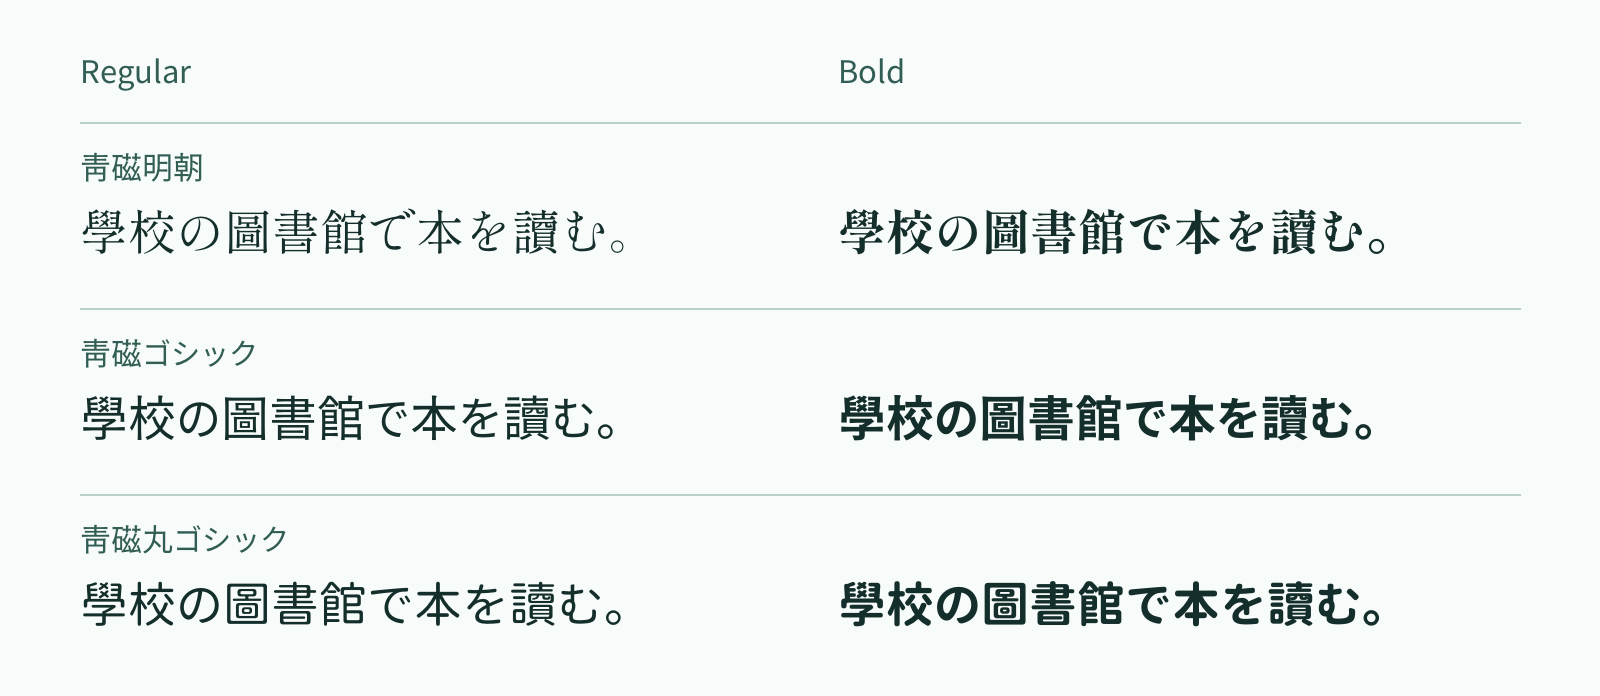
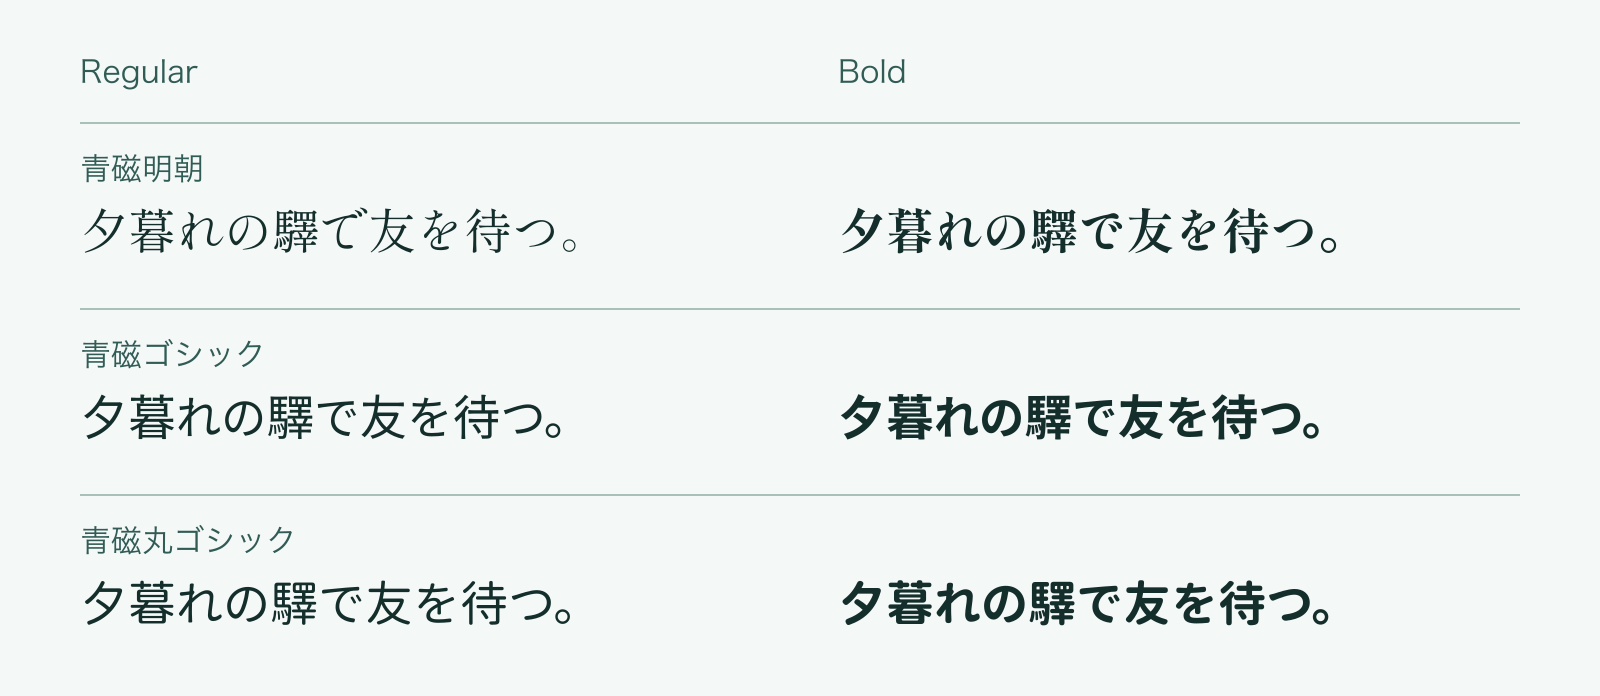
公開文書を整理して英語READMEを追加する

diff --git a/README.md b/README.md
@@ -1,31 +1,49 @@
-# 青磁（せいじ） / Seiji
+# 青磁 / Seiji
 
-青磁は、日本語の漢字を旧字形で表示する書体です。たとえば「学校の図書館」と入力すると、「學校の圖書館」の字形で表示されます。青磁明朝・青磁ゴシック・青磁丸ゴシックの3書体があり、それぞれRegularとBoldを用意しています。
+[English](README.en.md)
 
-[配布版をダウンロードする](https://github.com/metasta/seiji-fonts/releases)
+青磁（せいじ）は、一点明朝正字を基準に漢字の字形を選んだ日本語書体です。青磁明朝・青磁ゴシック・青磁丸ゴシックに、それぞれRegularとBoldがあります。
 
-![青磁明朝・青磁ゴシック・青磁丸ゴシックのRegularとBoldで「学校の図書館で本を読む。」を表示した見本](seiji-specimen.png)
+[フォントをダウンロード](https://github.com/metasta/seiji-fonts/releases)
 
-## 収録範囲
+![青磁明朝・青磁ゴシック・青磁丸ゴシックのRegularとBoldで「夕暮れの驛で友を待つ。」を並べた横組みの見本](seiji-specimen.png)
 
-増補先行版0.200では、教育漢字1,026字に加え、「僕」「俺」「又」など教育漢字以外の常用漢字200字を収録しています。収録漢字は3書体とも計1,226字です。収録漢字の一覧は、配布ZIPの `収録漢字.txt` をご覧ください。ア行エ「𛀀」とや行え「𛀁」も収録しています。未収録の漢字には、アプリやブラウザが代替の書体を使うことがあります。収録範囲は今後の版で順次広げていきます。
-
-## 使い方
+## 利用方法
 
 ### Wordなどのアプリ
 
-配布ZIPを展開し、使いたい書体のOTFをインストールします。アプリのフォントメニューで「青磁明朝」「青磁ゴシック」「青磁丸ゴシック」を選びます。英語の表示名はそれぞれ Seiji Mincho、Seiji Gothic、Seiji Maru Gothic です。
+配布ZIPを展開し、利用する書体のOTFをインストールします。RegularとBoldを併用する場合は、両方のOTFをインストールします。アプリのフォントメニューで、書体名を選びます。
+
+| 書体 | 英語の表示名 |
+| --- | --- |
+| 青磁明朝 | Seiji Mincho |
+| 青磁ゴシック | Seiji Gothic |
+| 青磁丸ゴシック | Seiji Maru Gothic |
 
 ### macOS版Safari
 
-「設定 → 詳細 → スタイルシート → その他」で、ZIPの `Safari` フォルダにあるCSSを一つ選び、読みたいページを再読み込みします。日本語と指定された本文・見出し・ルビなどに選んだ書体を使います。サイトの言語指定やフォント読み込みの設定によっては適用されないことがあります。[Safariの詳細設定](https://support.apple.com/en-ie/guide/safari/ibrw1075/mac)
+「設定 → 詳細 → スタイルシート → その他」で、配布ZIPの `Safari` フォルダにあるCSSを一つ指定し、対象のページを再読み込みします。日本語と指定された本文・見出し・ルビなどに適用されます。 [CSSの選択と適用範囲](docs/safari.md)
 
-### 文脈による字形の切り替え
+## 収録範囲
 
-対応する組版環境では、「台」を単独で入力すると「臺」、天台では「台」、台頭では「擡」、台風では「颱」の字形になります。0.200では「勘弁」と「弁償」の「弁」が「辨」の字形で表示されるなど、増補に伴って7件の規則が新たに有効になります。「台」の直後に異体字セレクタ U+E0100 を入力すると、文脈にかかわらず「台」の字形になります。コピーや検索には、入力した文字コードが使われます。
+増補先行版 0.200は、教育漢字1,026字と、教育漢字以外の常用漢字200字を収録します。6本のフォントに共通する計1,226字です。個々の漢字は、配布ZIPの `収録漢字.txt` で確認できます。
 
-## 字形の基準とライセンス
+## 文脈による字形選択と入力字の指定
 
-漢字の字形は、一点明朝正字を基準に選んでいます。各書体の素材とその配布元は、ZIPの `README.md` と `素材の出典.json` に記載しています。[一点明朝正字の字形選定基準](https://github.com/epistularum/kanji-restoration#正字-criteria)
+「辯」「辨」「瓣」は、今の表記では同じ「弁」と書く別の漢字です。OpenTypeの `calt` が有効な組版環境では、「弁論・弁別・花弁」を「辯論・辨別・花瓣」の字形で表示します。
 
-青磁のフォントとSafari用CSSに含まれるフォントは、SIL Open Font License 1.1で配布します。著作権表示とライセンス原文は同梱の [OFL.txt](OFL.txt) をご覧ください。
+単独の「弁」は通常「辯」の字形で表示します。「弁」そのものの形が必要なときは、異体字シーケンス（IVS）に対応する環境で、「弁」に異体字セレクタを続けた `弁` を入力します。0.200でこの指定ができるのは、対応表に記した13組です。 [文脈規則とIVSの対応表](docs/contextual-forms.md)
+
+## 技術資料
+
+- [漢字とかなの収録範囲](docs/coverage.md)
+- [漢字の選定基準と青磁の字形](docs/glyph-selection.md)
+- [文脈による字形選択と異体字シーケンス](docs/contextual-forms.md)
+- [macOS版Safariでの設定と適用範囲](docs/safari.md)
+- [既知の表示上の制約](docs/known-issues.md)
+
+## 使用許諾と素材
+
+OTF版のフォントとSafari用CSS内のフォントは、SIL Open Font License 1.1で配布します。著作権表示とライセンス原文は `OFL.txt` に、素材の配布元とSHA-256は配布ZIPの `素材の出典.json` に記載します。 [OFL.txt](OFL.txt)
+
+青磁に関する質問や不具合の報告は、GitHub Issuesで受け付けます。 [Issues](https://github.com/metasta/seiji-fonts/issues)

diff --git a/docs/contextual-forms.md b/docs/contextual-forms.md
@@ -1,0 +1,64 @@
+# 文脈による字形選択と異体字シーケンス
+
+青磁 0.200では、「弁論・弁別・花弁」の「弁」を、文脈に応じて「辯・辨・瓣」の字形で表示できます。「弁別」を「辨別」の字形で表示した場合も、コピーすると入力時の「弁別」が得られます。以下の対応範囲は、青磁明朝・青磁ゴシック・青磁丸ゴシックのRegularとBoldで共通です。
+
+## 前後の文字に応じた表示
+
+OpenTypeの文脈依存字形機能（`calt`）が有効なアプリでは、前後の文字が登録された規則に一致すると字形が決まります。「花弁」の「弁」は、直前の「花」によって「瓣」の形になります。「弁論」の「辯」は「弁」の既定の字形です。既定の字形は、下表の「通常」欄に示します。 [OpenTypeの `calt` 仕様](https://learn.microsoft.com/en-us/typography/opentype/spec/features_ae#tag-calt)
+
+## 入力した漢字自体の字形を指定する（IVS）
+
+「弁」は通常「辯」、「余」は通常「餘」の字形で表示します。「弁」や「余」自体の形が必要な場合は、表の `弁` や `余` をコピーして貼り付けます。漢字とその直後に置く字形指定用の文字（異体字セレクタ）の組を、異体字シーケンス（IVS）と呼びます。上の二例では異体字セレクタはU+E0100です。対応アプリでは、IVSの指定が `calt` より優先します。
+
+この方法で入力した漢字自体の字形を指定できるのは、表に示す13組です。各組はUnicodeの異体字データベース（IVD）に登録されています。 [Unicode IVD](https://www.unicode.org/ivd/)
+
+| 入力 | 通常 | IVS（コピー用） | 異体字セレクタ | IVSの字形 | 文脈規則数 |
+| --- | --- | --- | --- | --- | ---: |
+| 台（U+53F0） | 臺 | `台` | `U+E0100` | 台 | 19 |
+| 弁（U+5F01） | 辯 | `弁` | `U+E0100` | 弁 | 52 |
+| 予（U+4E88） | 豫 | `予` | `U+E0100` | 予 | 2 |
+| 余（U+4F59） | 餘 | `余` | `U+E0100` | 余 | 0 |
+| 灯（U+706F） | 燈 | `灯` | `U+E0100` | 灯 | 1 |
+| 芸（U+82B8） | 藝 | `芸` | `U+E0102` | 芸（四画の草冠） | 14 |
+| 欠（U+6B20） | 缺 | `欠` | `U+E0100` | 欠 | 6 |
+| 体（U+4F53） | 體 | `体` | `U+E0100` | 体 | 1 |
+| 担（U+62C5） | 擔 | `担` | `U+E0100` | 担 | 0 |
+| 糸（U+7CF8） | 絲 | `糸` | `U+E0100` | 糸 | 0 |
+| 虫（U+866B） | 蟲 | `虫` | `U+E0100` | 虫 | 0 |
+| 蚕（U+8695） | 蠶 | `蚕` | `U+E0100` | 蚕 | 0 |
+| 証（U+8A3C） | 證 | `証` | `U+E0100` | 証 | 0 |
+
+## 前後の文字で字形が決まる語句（calt）
+
+青磁 0.200の7字・95件の文脈規則です。「入力の文脈」欄の［ ］は、規則の対象となる1字を示します。「花［弁］」では、「花」の直後の「弁」に「瓣」の形が適用されます。0.200で追加した規則には、「勘弁」「弁償」の「弁」を「辨」の字形で表示するものがあります。
+
+| 対象字 | 表示字形 | 入力の文脈 |
+| --- | --- | --- |
+| 台 | 台 | ［台］安・［台］臨・［台］位・［台］階・［台］司・［台］書・［台］席・［台］背・［台］墨・［台］命・［台］覧・［台］星・［台］台・［台］々・天［台］・［台］密・［台］家 |
+| 台 | 擡 | ［台］頭 |
+| 台 | 颱 | ［台］風 |
+| 弁 | 辨 | 駅［弁］・勘［弁］・思［弁］・自［弁］・知勇［弁］力・調［弁］・［弁］え・［弁］務・分［弁］・［弁］別・論［弁］・明［弁］・精［弁］ |
+| 弁 | 辨 | ［弁］内侍・［弁］償・［弁］済・［弁］校・［弁］官・左大［弁］・左中［弁］・左少［弁］・右大［弁］・右中［弁］・右少［弁］・［弁］告・［弁］財天 |
+| 弁 | 辨 | ［弁］章・［弁］証・［弁］色・［弁］説・［弁］当・［弁］白・［弁］法・［弁］理・［弁］正 |
+| 弁 | 瓣 | 合［弁］花・単［弁］・花［弁］・安全［弁］・［弁］香・皮［弁］ |
+| 弁 | 辦 | ［弁］厳・重［弁］・総［弁］・会［弁］・合［弁］・買［弁］ |
+| 弁 | 弁 | ［弁］言・［弁］兵・［弁］目・武［弁］・赤［弁］丈人 |
+| 予 | 予 | ［予］一人・［予］小子 |
+| 灯 | 灯 | 提［灯］ |
+| 芸 | 芸（四画の草冠） | ［芸］芸・［芸］々・［芸］香・［芸］閣・［芸］局・［芸］黄・［芸］窓・［芸］若・［芸］草・［芸］署・［芸］台・［芸］夫・［芸］編・［芸］亭 |
+| 欠 | 欠 | ［欠］字・［欠］日・［欠］伸・［欠］申・［欠］積・積［欠］ |
+| 体 | 体 | ［体］夫 |
+
+### 同音の別字を表示する例
+
+「台頭」を「擡頭」、「台風」を「颱風」の字形で表示する規則もあります。同音の別字による表記は、一部の語に限る補足的な機能です。
+
+### 表の語句で目的の字形が出ないとき
+
+アプリで `calt` を有効にし、表の文字列を同じフォント・書式で入力します。「花 弁」と間に空白を挟むと、「花［弁］」の規則に一致しません。アプリが途中で処理を分ける場合も、前後の文字を同時に参照できず、規則が適用されないことがあります。
+
+表の規則に当てはまる文脈がなく、IVSによる指定もない場合は通常の字形になります。
+
+### 複数の規則が当てはまるとき
+
+対象字の前後に指定された文字数の合計が多い規則を優先し、同数なら登録順で決めます。「天台風」の「台」は「天［台］」と「［台］風」に当てはまります。この場合は先に登録された「天［台］」の規則を適用し、「台」の字形を表示します。

diff --git a/README.en.md b/README.en.md
@@ -1,0 +1,51 @@
+# Seiji / 青磁
+
+[日本語](README.md)
+
+Seiji is a set of Japanese typefaces whose kanji forms follow the selection criteria of I.Ming Seiji. Seiji Mincho, Seiji Gothic, and Seiji Maru Gothic each come in Regular and Bold.
+
+[Download the fonts](https://github.com/metasta/seiji-fonts/releases)
+
+![Horizontal specimen comparing Regular and Bold in Seiji Mincho, Seiji Gothic, and Seiji Maru Gothic. The sample describes waiting for a friend at a station at dusk, with 駅 shown in the form 驛.](seiji-specimen.png)
+
+## Installation
+
+### Word and other apps
+
+Extract the release ZIP and install the OTF files for your chosen typeface. Install both files if you need both weights. Choose the typeface from your app’s font menu.
+
+| English menu name | Japanese menu name |
+| --- | --- |
+| Seiji Mincho | 青磁明朝 |
+| Seiji Gothic | 青磁ゴシック |
+| Seiji Maru Gothic | 青磁丸ゴシック |
+
+### Safari on macOS
+
+Open **Settings → Advanced → Style sheet → Other**, select one CSS file from the release ZIP’s `Safari` folder, and reload the page. This applies Seiji to page content marked as Japanese, including body text, headings, and ruby annotations. [Style sheet options and scope (Japanese)](docs/safari.md)
+
+## Character coverage
+
+The 0.200 preview includes 1,026 educational kanji and 200 additional jōyō kanji, for a total of 1,226 across all six fonts. The release ZIP includes the complete list in `収録漢字.txt`.
+
+## Contextual forms and literal glyphs
+
+辯, 辨, and 瓣 are distinct kanji that share the form 弁 in modern Japanese. When the OpenType `calt` feature is enabled, 弁論, 弁別, and 花弁 appear as 辯論, 辨別, and 花瓣, respectively.
+
+On its own, 弁 normally appears as 辯. To display the form 弁 itself in an app that supports ideographic variation sequences (IVS), enter `弁` (弁 followed by U+E0100). Version 0.200 provides this option for the 13 sequences in the reference table. [Contextual rules and IVS reference (Japanese)](docs/contextual-forms.md)
+
+## Technical documentation
+
+These documents are in Japanese.
+
+- [Kanji and kana coverage](docs/coverage.md)
+- [Kanji selection and Seiji’s glyph design](docs/glyph-selection.md)
+- [Contextual forms and ideographic variation sequences](docs/contextual-forms.md)
+- [Safari setup and style sheet scope](docs/safari.md)
+- [Known display limitations](docs/known-issues.md)
+
+## License and sources
+
+Seiji is distributed under the SIL Open Font License 1.1, including the fonts embedded in the Safari CSS. See `OFL.txt` for copyright notices and the license text. The release ZIP lists source URLs and SHA-256 hashes in `素材の出典.json`. [OFL.txt](OFL.txt)
+
+Questions and bug reports are welcome on GitHub. [Issues](https://github.com/metasta/seiji-fonts/issues)

diff --git a/docs/coverage.md b/docs/coverage.md
@@ -1,0 +1,23 @@
+# 収録漢字とかな
+
+青磁 0.200の収録漢字は、配布ZIPの `収録漢字.txt` で確認できます。入力する漢字と、そのUnicode符号位置（文字番号）の一覧です。青磁明朝・青磁ゴシック・青磁丸ゴシックのRegularとBold、計6本の収録漢字は共通です。 [青磁 0.200の配布ZIP](https://github.com/metasta/seiji-fonts/releases/tag/v0.200)
+
+| 区分 | 字数 |
+| --- | ---: |
+| 教育漢字 | 1,026 |
+| 教育漢字以外の常用漢字の一部 | 200 |
+| 合計 | 1,226 |
+
+## 0.200で収録した範囲
+
+教育漢字は、小学校学習指導要領の学年別漢字配当表（平成29年告示）の全1,026字です。0.100ではこの範囲を収録しました。 [文部科学省「小学校学習指導要領（平成29年告示）解説 国語編」](https://www.mext.go.jp/content/20220606-mxt_kyoiku02-100002607_002.pdf)
+
+0.200で追加したのは、平成22年の常用漢字表から教育漢字を除き、Unicodeの符号位置が小さい順に並べた先頭の200字です。「丈」（U+4E08）から「奔」（U+5954）までで、「僕」「俺」「勘」「償」などを含みます。常用漢字の符号位置の特定には、Unihan 18.0.0の `kJoyoKanji` で値が `2010` の項目を参照しました。 [文化庁「常用漢字表」](https://www.bunka.go.jp/kokugo_nihongo/sisaku/joho/joho/kijun/naikaku/kanji/index.html)・[Unicode Unihanの項目定義](https://www.unicode.org/reports/tr38/tr38-41.html#kJoyoKanji)
+
+## 入力する漢字と表示する形
+
+「国」（U+56FD）を入力すると「國」の字形で表示します。文字コードは入力時のままなので、収録を確かめるときは入力する「国」で一覧を参照します。「國」（U+570B）を直接入力した場合は、青磁 0.200の収録範囲外です。未収録の文字は、アプリやブラウザが別のフォントで表示する場合があります。 [字形の選定と調整](glyph-selection.md)
+
+## ア行エとや行え
+
+ア行エ「𛀀」（U+1B000）とや行え「𛀁」（U+1B001）を6本すべてに収録します。横組み・縦組みともに、1字分の送りは全角です。両字の素材は、青磁明朝がさらら明朝3.000、青磁ゴシックが霧ゴシック4.12です。青磁丸ゴシックでは、霧ゴシックの形に丸みを付けました。 [さらら明朝](https://www.akenotsuki.com/eyeben/fonts/sarara.html)・[霧ゴシック](https://www.akenotsuki.com/eyeben/fonts/kirigo.html)

diff --git a/docs/glyph-selection.md b/docs/glyph-selection.md
@@ -1,0 +1,22 @@
+# 字形の選定と調整
+
+青磁は、一点明朝正字 v1.1を漢字の字形選びの基準とします。字の成り立ちと日本語での用法を確かめ、明朝・ゴシック・丸ゴシックそれぞれの素材から字形を選びます。収録する漢字は、3書体のRegularとBoldの全6本で確認します。 [一点明朝正字の字形選定基準](https://github.com/epistularum/kanji-restoration#正字-criteria)
+
+## 書体間で共通にする形
+
+字を構成する部分の区別を保った上で、部分同士の接触や分離に選択の余地がある場合は、上下の構成を読み取りやすい形を選ぶことがあります。一点明朝正字が参照する『傳承字形部件檢校表』の表三では、構成する部分が混同されない範囲の接触や分離を、設計上の差の例に含めます。 [『傳承字形部件檢校表』1.37（本文111〜113頁）](https://github.com/ichitenfont/inheritedglyphs/blob/master/component_of_recom_inherited_glyphs-1.37.pdf)
+
+青磁 0.200では、「走」と「起」に含まれる「走」の両方に、上部と下部が分かれた形を採用しました。この選択は6本で共通です。
+
+## 書体ごとの素材
+
+素材ごとの配布元、著作権表示、SHA-256は、配布ZIPの `素材の出典.json` で確認できます。 [青磁 0.200の配布ZIP](https://github.com/metasta/seiji-fonts/releases/tag/v0.200)
+
+| 素材 | 青磁での役割 |
+| --- | --- |
+| [しっぽり明朝](https://github.com/fontdasu/ShipporiMincho) | 青磁明朝のかな・約物・欧文と組版の基本設定 |
+| [源流明朝](https://github.com/ButTaiwan/genryu-font) | 青磁明朝の漢字素材 |
+| [源石ゴシック](https://github.com/ButTaiwan/genseki-font) | 青磁ゴシックの基本設定と漢字素材 |
+| [源泉丸ゴシック](https://github.com/ButTaiwan/gensen-font) | 青磁丸ゴシックの基本設定と漢字素材 |
+| [源ノ明朝](https://github.com/adobe-fonts/source-han-serif)・[源ノ角ゴシック](https://github.com/adobe-fonts/source-han-sans) | 漢字の形の再生成と、各書体で共通に参照する原稿 |
+| [さらら明朝](https://www.akenotsuki.com/eyeben/fonts/sarara.html)・[霧ゴシック](https://www.akenotsuki.com/eyeben/fonts/kirigo.html) | ア行エ・や行えの素材 |

diff --git a/docs/safari.md b/docs/safari.md
@@ -1,0 +1,27 @@
+# macOS版Safariでの設定と適用範囲
+
+青磁 0.200のSafari用CSSには、書体ごとにRegularとBoldのフォントが含まれます。Safariでは、CSSを指定すると対象のWebページを青磁で表示できます。
+
+## CSSを指定する
+
+1. [青磁 0.200の配布ZIP](https://github.com/metasta/seiji-fonts/releases/tag/v0.200) を展開します。
+2. Safariの「設定 → 詳細 → スタイルシート → その他」で、ZIPの `Safari` フォルダにあるCSSを一つ選びます。
+3. 表示するページを再読み込みします。元の表示に戻す場合は、「スタイルシート」を元の設定に戻します。 [Safariの詳細設定](https://support.apple.com/en-ie/guide/safari/ibrw1075/mac)
+
+| 書体 | CSS |
+| --- | --- |
+| 青磁明朝 | `SeijiMincho.css` |
+| 青磁ゴシック | `SeijiGothic.css` |
+| 青磁丸ゴシック | `SeijiMaruGothic.css` |
+
+## どの部分に適用されるか
+
+CSSは、日本語と指定された本文、見出し、表、ルビなどに青磁を適用します。ナビゲーション、コード、ボタンや入力欄などは適用の対象外です。青空文庫の旧形式のページでは、サイトの情報と日本語の指定をもとに、本文を対象とします。
+
+表示を確認するには、青空文庫『三国志 図南の巻』を開きます。冒頭の「帰」が「歸」の字形で表示されます。 [青空文庫『三国志 図南の巻』](https://www.aozora.gr.jp/cards/001562/files/52417_51068.html)
+
+## 青磁で表示されない場合
+
+ページの言語指定やフォントの読み込み条件によっては、CSSの指定が反映されない場合があります。一部の漢字だけ別の書体で表示される場合は、配布ZIPの `収録漢字.txt` でその字の有無を確認できます。 [漢字の収録範囲](coverage.md)
+
+青磁を更新する場合は、Safariの設定で新しい版のCSSを選び、ページを再読み込みします。

diff --git a/docs/known-issues.md b/docs/known-issues.md
@@ -1,0 +1,5 @@
+# 既知の表示上の制約
+
+## 縦組みで横棒を4字続けたときの継ぎ目
+
+青磁ゴシックと青磁丸ゴシックの0.200では、縦組みの「―」（U+2015）を2字ずつ一つの字形にまとめます。この処理が有効な組版環境では、`――` が1本の線になります。`――――` と4字続けると、2字ずつのまとまりの間に隙間が見える場合があります。
